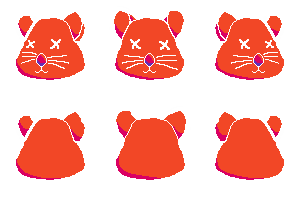
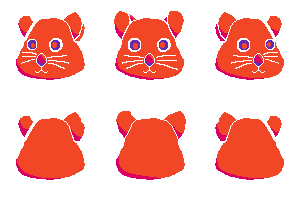
hamster alive default

diff --git a/client/index.v1.0.4.js b/client/index.v1.0.4.js
@@ -459,7 +459,7 @@ let skinslist = [
     secondary: 10,
     tertiary: 7,
     speed: 1.1,
-    sub: ["al", "eth"],
+    sub: ["", "eth"],
     currentsub: 0,
   },
 ];
@@ -502,7 +502,7 @@ let devskinslist = [
     secondary: 10,
     tertiary: 7,
     speed: 1.1,
-    sub: ["al", "eth"],
+    sub: ["", "eth"],
     currentsub: 0,
   },
   {
